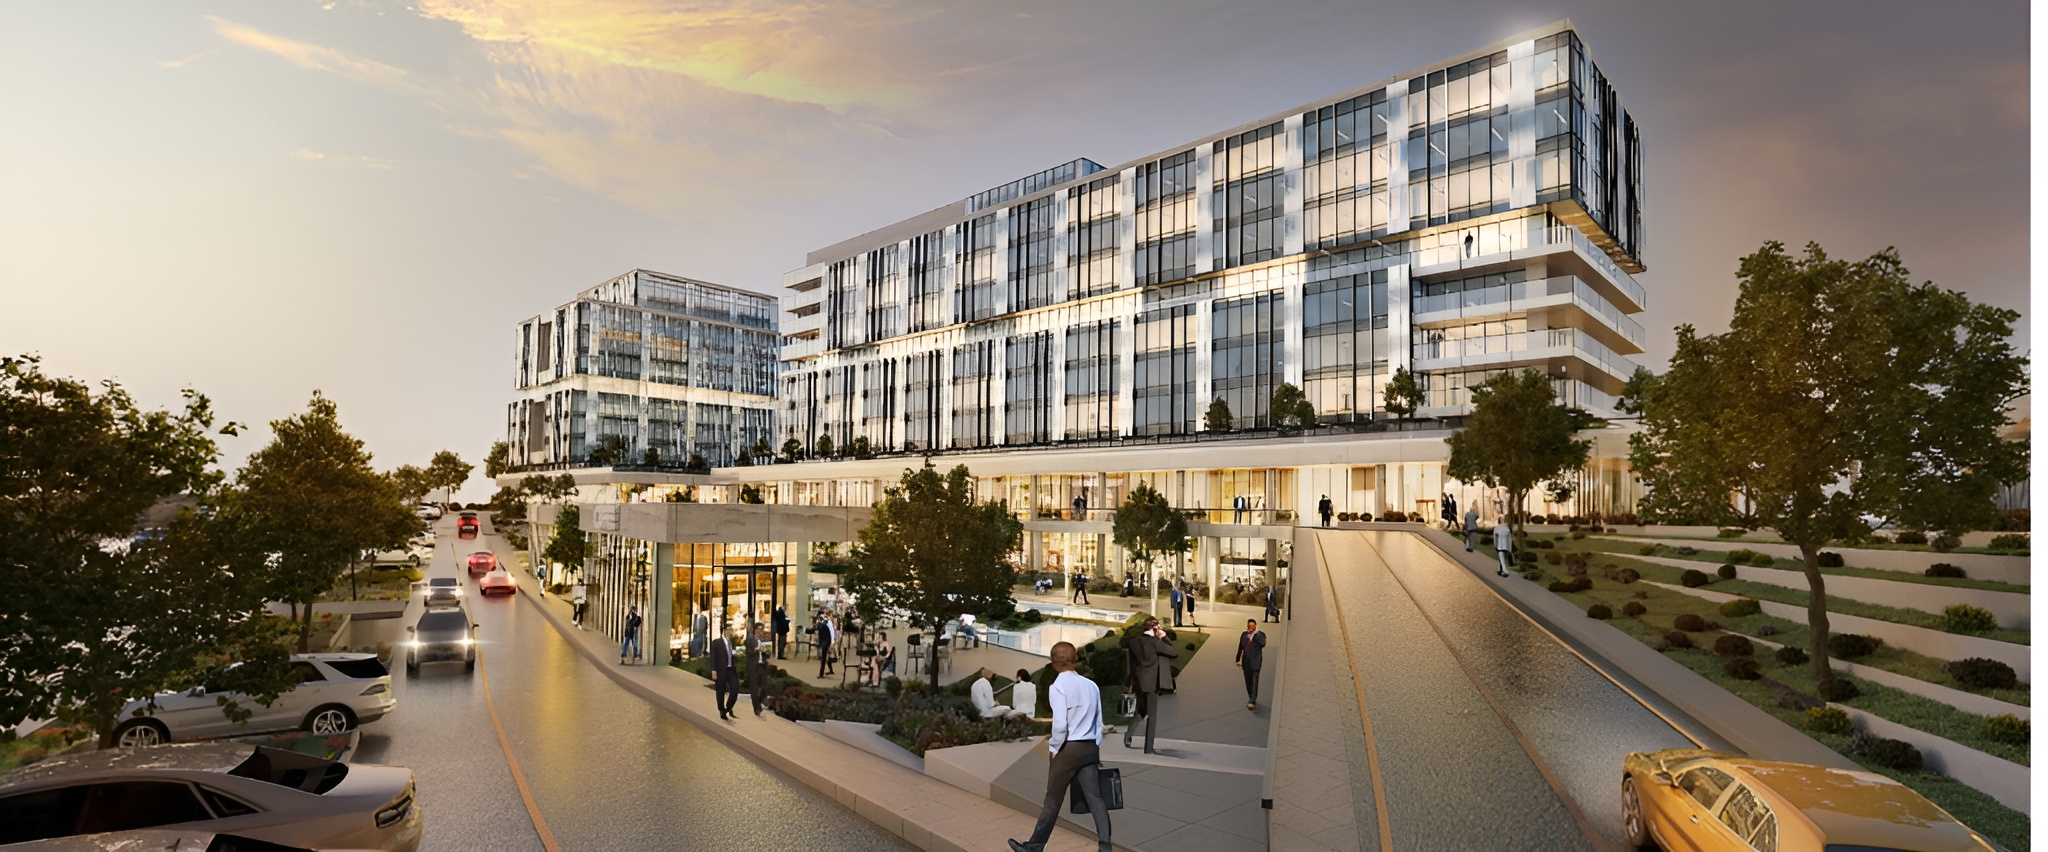
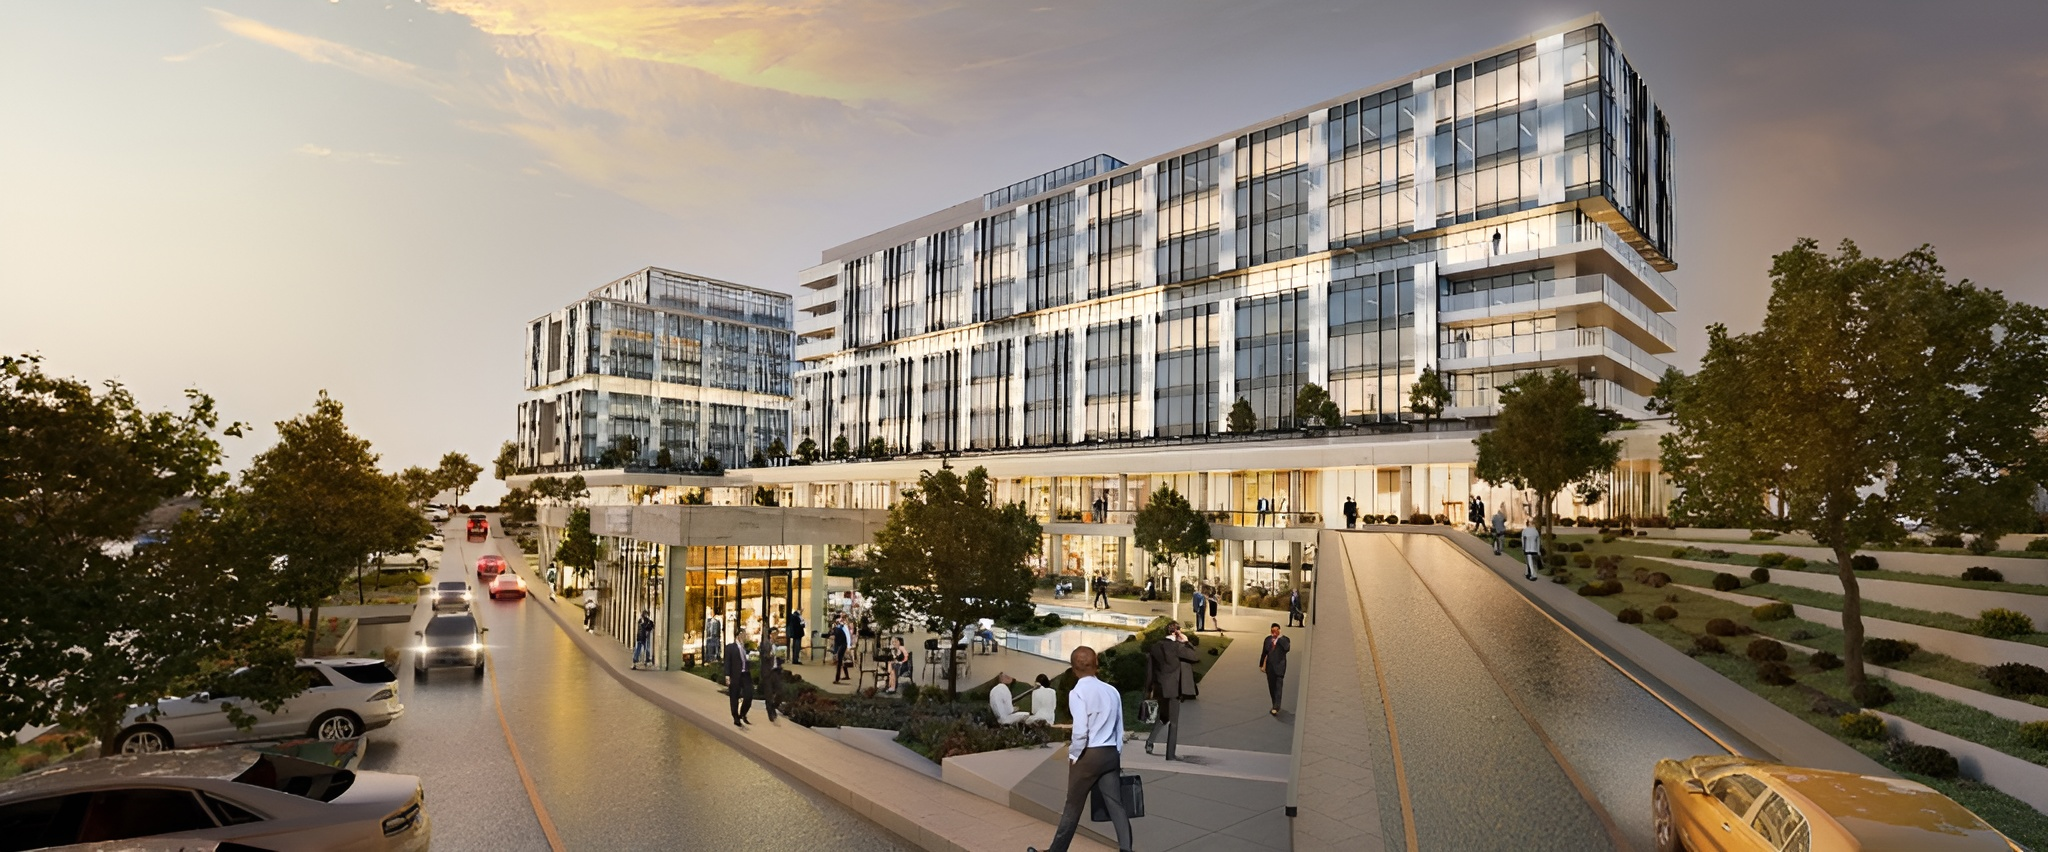
Initial commit

diff --git a/app/components/footer.tsx b/app/components/footer.tsx
@@ -86,7 +86,7 @@ Mustafa Kemal, 2127. Cd No:21, 06530 Çankaya/Ankara
 
           <div>
             <h5 className="font-semibold mb-2">Gelecek Projeler</h5>
-            <ul className="flex flex-wrap gap-2">
+          <ul className="flex flex-col gap-2">
   {[
     { name: "YALIKAVAK", url: "https://www.google.com/maps/place/37%C2%B008'18.0%22N+27%C2%B019'06.2%22E/@37.1385557,27.3174448,669m/data=!3m1!1e3!4m4!3m3!8m2!3d37.1383333!4d27.3183889?entry=ttu&g_ep=EgoyMDI1MDYxMS4wIKXMDSoASAFQAw%3D%3D" },
     { name: "MİLAS KIYIKIŞLACIK", url: "https://www.google.com/maps/place/K%C4%B1y%C4%B1k%C4%B1%C5%9Flac%C4%B1k,+48200+Milas%2FMu%C4%9Fla/@37.2725837,27.6177563,667m/data=!3m2!1e3!4b1!4m6!3m5!1s0x14bef5bf2b757283:0x7d86dea5fbe1f934!8m2!3d37.2725837!4d27.6177563!16s%2Fg%2F11p61vs7xc?hl=tr-TR&entry=ttu&g_ep=EgoyMDI1MDYwNC4wIKXMDSoASAFQAw%3D%3D" },
@@ -106,7 +106,7 @@ Mustafa Kemal, 2127. Cd No:21, 06530 Çankaya/Ankara
 
 
             <h5 className="font-semibold mt-4 mb-2">Tamamlanmış Projeler</h5>
-            <ul className="flex flex-wrap gap-2">
+          <ul className="flex flex-col gap-2">
   {[
     { name: "ANTARES KONUTLARI 1. ETAP", url: "/anteres" },
     { name: "VEGA CADDE", url: "/vega-cadde" },
@@ -131,7 +131,7 @@ Mustafa Kemal, 2127. Cd No:21, 06530 Çankaya/Ankara
 
           <div>
             <h5 className="font-semibold mb-2">Sayfalar</h5>
-            <ul className="space-y-1">
+          <ul className="flex flex-col gap-2">
   {[
     { name: "Ana Sayfa", url: "/" },
     { name: "Hakkımızda", url: "/about-us" },
@@ -151,7 +151,7 @@ Mustafa Kemal, 2127. Cd No:21, 06530 Çankaya/Ankara
 
           <div>
   <h5 className="font-semibold mb-2">Diğer Nata Siteleri</h5>
-  <ul className="space-y-1">
+          <ul className="flex flex-col gap-2">
     {[
       { name: "Nata Holding", url: "https://www.nataholding.com/" },
       { name: "Vega AVM", url: "https://vegaavm.com.tr/" },

diff --git a/app/components/Blogs.tsx b/app/components/Blogs.tsx
@@ -61,18 +61,27 @@ export default function Blogs({ posts }: BlogsProps) {
               <Link href={`/blog/${post.slug}`} className="block">
                 <div className="relative group flex flex-col md:flex-row justify-between items-start gap-6 bg-gray-50 p-6 rounded-xl transition hover:shadow-md">
                   {/* Hover Image */}
-                  <div className="absolute left-1/2 top-1/2 transform -translate-x-1/2 -translate-y-1/2 opacity-0 group-hover:opacity-100 transition duration-300 pointer-events-none z-10">
-                    <div className="w-[180px] h-[120px] rounded-xl overflow-hidden shadow-xl">
-                      <Image
-                        src={post.image}
-                        alt={post.title}
-                        width={180}
-                        height={120}
-                        className="object-cover w-full h-full"
-                      />
-                    </div>
-                  </div>
+               <div className="absolute left-1/2 top-1/2 transform -translate-x-1/2 -translate-y-1/2 opacity-70 group-hover:opacity-100 transition duration-300 pointer-events-none z-10">
+  <div className="w-[200px] h-[140px] rounded-xl overflow-hidden shadow-xl relative">
+    
+    {/* Blurred background fill */}
+    <Image
+      src={post.image}
+      alt={`${post.title} background`}
+      fill
+      className="object-cover blur-sm scale-110 absolute top-0 left-0 z-0"
+    />
 
+    {/* Main sharp image */}  
+    <Image
+      src={post.image}
+      alt={post.title}
+      width={180}
+      height={120}
+      className="object-contain w-full h-full relative z-10"
+    />
+  </div>
+</div>
                   {/* Left Side: Title + Date */}
                   <div className="md:w-1/3 z-20">
                     <h3 className="text-lg font-semibold text-gray-900">{post.title}</h3>

diff --git a/app/components/tempoint/Hero.tsx b/app/components/tempoint/Hero.tsx
@@ -75,22 +75,7 @@ export default function ProjectHeroCloudSection() {
       </div>
     </div>
 
-<div className="flex flex-wrap justify-center gap-3 max-w-xl mx-auto mt-6 font-semibold">
-  <div className="bg-white/20 text-white px-4 py-2 rounded-xl flex items-center gap-2 text-sm">
-Metroya 10 Dk Uzaklıkta  </div>
-  <div className="bg-white/20 text-white px-4 py-2 rounded-xl flex items-center gap-2 text-sm">
-    <FaMapMarkerAlt />  Sultangazi / İstanbul
-  </div>
-  <div className="bg-white/20 text-white px-4 py-2 rounded-xl text-sm text-center">
-  468 Konut  & 444 Rezidans & 270 Mağaza
-  </div>
-  <div className="bg-white/20 text-white px-4 py-2 rounded-xl text-sm text-center">
- Hemen Teslim
-  </div>
-  <div className="bg-white/20 text-white px-4 py-2 rounded-xl text-sm text-center">
- Can Alıcı Lokasyon
-  </div>
-</div>
+
 
 
 
@@ -106,7 +91,7 @@ Metroya 10 Dk Uzaklıkta     </div>
     </div>
   </Link>
 
-  <Link href="#unit-types">
+  <Link href="#contact">
     <div className="bg-white/20 text-white px-4 py-2 rounded-xl text-sm text-center cursor-pointer">
   468 Konut  & 444 Rezidans & 270 Mağaza
     </div>

diff --git a/data/kampanyalar.ts b/data/kampanyalar.ts
@@ -123,7 +123,7 @@
   {
   slug: "bes-pesin-36-ay",
   title: "%5 peşinatla",
-  highlight: "36 ay sıfır faizli ödeme planı",
+  highlight: "36 ay 0 faizli ödeme planı",
   description: "Temmuz'a özel fırsatlar",
   bg: "/kampanya/6.png",
   image: "/kampanya/icons/6.png",
@@ -141,7 +141,7 @@
       ]
     }
   ],
-  secondText: "Detaylı ödeme planı için satış danışmanlarımızla <span class='text-red-600'>hemen iletişimne geç</span>. Ertelemek yerine şimdi harekte geç, konut sahibi olmanın en kolay yolunu kaçırma!"
+  secondText: "Detaylı ödeme planı için satış danışmanlarımızla <span class='text-red-600'>hemen iletişime geç</span>. Ertelemek yerine şimdi harekte geç, konut sahibi olmanın en kolay yolunu kaçırma!"
 
 }
 ,

diff --git a/app/components/anteres/Hero.tsx b/app/components/anteres/Hero.tsx
@@ -56,7 +56,7 @@ export default function ProjectHeroCloudSection() {
   </Link>
   <span>/</span>
   <Link href="#" passHref>
-    <span className="cursor-pointer font-bold hover:underline">Antares</span>
+    <span className="cursor-pointer font-bold hover:underline">Antares Konutları</span>
   </Link>
 </div>
 </div>
@@ -78,7 +78,7 @@ export default function ProjectHeroCloudSection() {
     </div>
 
 <div className="flex flex-wrap justify-center gap-3 max-w-xl mx-auto mt-6 font-semibold z-10">
-  <Link href="/anteres#unit-types">
+  <Link href="/anteres#contact">
     <div className="bg-white/20 text-white px-4 py-2 rounded-xl flex items-center gap-2 text-sm cursor-pointer">
       500+ Konut ve Ticari Alan
     </div>

diff --git a/app/anteres/page.tsx b/app/anteres/page.tsx
@@ -24,13 +24,9 @@ const Page: React.FC = () => {
         <NearLocations />
       </section>
   
-      <section id="site-plans" className="scroll-mt-24">
-        <SitePlans />
-      </section>
+     
   
-      <section id="unit-types" className="scroll-mt-24">
-        <UnitTypes />
-      </section>
+ 
   
       <section id="design" className="scroll-mt-24">
         <Design />
@@ -40,10 +36,7 @@ const Page: React.FC = () => {
         <Contact />
       </section>
   
-      <section id="office" className="scroll-mt-24">
-        <Office />
-      </section>
-  
+     
       <section id="boxes" className="scroll-mt-24">
         <Boxes />
       </section>

diff --git a/app/components/anteres/Design.tsx b/app/components/anteres/Design.tsx
@@ -21,8 +21,8 @@ export default function DesignSection() {
     >
       <div className="max-w-screen-xl mx-auto w-full flex flex-col lg:flex-row items-center justify-between gap-10 relative z-10">
         {/* Left Text Content */}
-        <div className="w-full max-w-xl">
-          <h2 className="text-3xl sm:text-4xl font-semibold text-gray-900 leading-tight">
+        <div className="w-full max-w-xl z-100">
+          <h2 className="text-3xl sm:text-4xl font-semibold text-gray-900 leading-tight ">
             ANTARES KONUTLARI <br /> ile Tanışın
           </h2>
           <p className="mt-6 text-sm text-gray-700 leading-relaxed">

diff --git a/app/components/mega-sasmaz/Hero.tsx b/app/components/mega-sasmaz/Hero.tsx
@@ -93,7 +93,7 @@ export default function ProjectHeroCloudSection() {
     </div>
   </Link>
 
-  <Link href="#unit-types">
+  <Link href="#contact">
     <div className="bg-white/20 text-white px-4 py-2 rounded-xl text-sm text-center cursor-pointer">
 700 Bağımsız    </div>
   </Link>
@@ -101,7 +101,7 @@ export default function ProjectHeroCloudSection() {
   <Link href="#contact">
     <div className="bg-white/20 text-white px-4 py-2 rounded-xl text-sm text-center cursor-pointer">
   3. Çeyrek 2025
-    </div>
+    </div>  
   </Link>
 
   <Link href="#life">

diff --git a/app/components/vega-otonomi/Hero.tsx b/app/components/vega-otonomi/Hero.tsx
@@ -86,12 +86,12 @@ export default function ProjectHeroCloudSection() {
     </div>
   </Link>
 
-  <Link href="#unit-types">
+  <Link href="#contact">
     <div className="bg-white/20 text-white px-4 py-2 rounded-xl text-sm text-center cursor-pointer">
 Geniş Otopark ve Kolay Erişim İmkanı     </div>
   </Link>
 
-<Link href="#unit-types">
+<Link href="#contact">
     <div className="bg-white/20 text-white px-4 py-2 rounded-xl text-sm text-center cursor-pointer">
   250+ Modern Ofis ve Ticari Alan     </div>
   </Link>

diff --git a/app/components/mega-1453/Design.tsx b/app/components/mega-1453/Design.tsx
@@ -29,7 +29,7 @@ export default function DesignSection() {
     >
       <div className="max-w-screen-xl mx-auto w-full flex flex-col lg:flex-row items-center justify-between gap-10 relative z-10">
         {/* Left Text Content */}
-        <div className="w-full max-w-xl">
+        <div className="w-full max-w-xl z-25">
           <h2 className="text-3xl sm:text-4xl font-semibold text-gray-900 leading-tight">
             Mega 1453 <br /> Karma Yaşam Projesi
           </h2>

diff --git a/app/components/hityenibati/Design.tsx b/app/components/hityenibati/Design.tsx
@@ -26,7 +26,7 @@ export default function DesignSection() {
     >
       <div className="max-w-screen-xl mx-auto w-full flex flex-col lg:flex-row items-center justify-between gap-10 relative z-10">
         {/* Left Text Content */}
-        <div className="w-full max-w-xl">
+        <div className="w-full max-w-xl z-25">
           <h2 className="text-3xl sm:text-4xl font-semibold text-gray-900 leading-tight">
             HİTYENİBATI <br /> ile Tanışın
           </h2>

diff --git a/app/components/mega-sasmaz/Design.tsx b/app/components/mega-sasmaz/Design.tsx
@@ -29,7 +29,7 @@ export default function DesignSection() {
     >
       <div className="max-w-screen-xl mx-auto w-full flex flex-col lg:flex-row items-center justify-between gap-10 relative z-10">
         {/* Left Text Content */}
-        <div className="w-full max-w-xl">
+        <div className="w-full max-w-xl z-25">
           <h2 className="text-3xl sm:text-4xl font-semibold text-gray-900 leading-tight">
             Mega ŞAŞMAZ <br /> ile Tanışın
           </h2>
